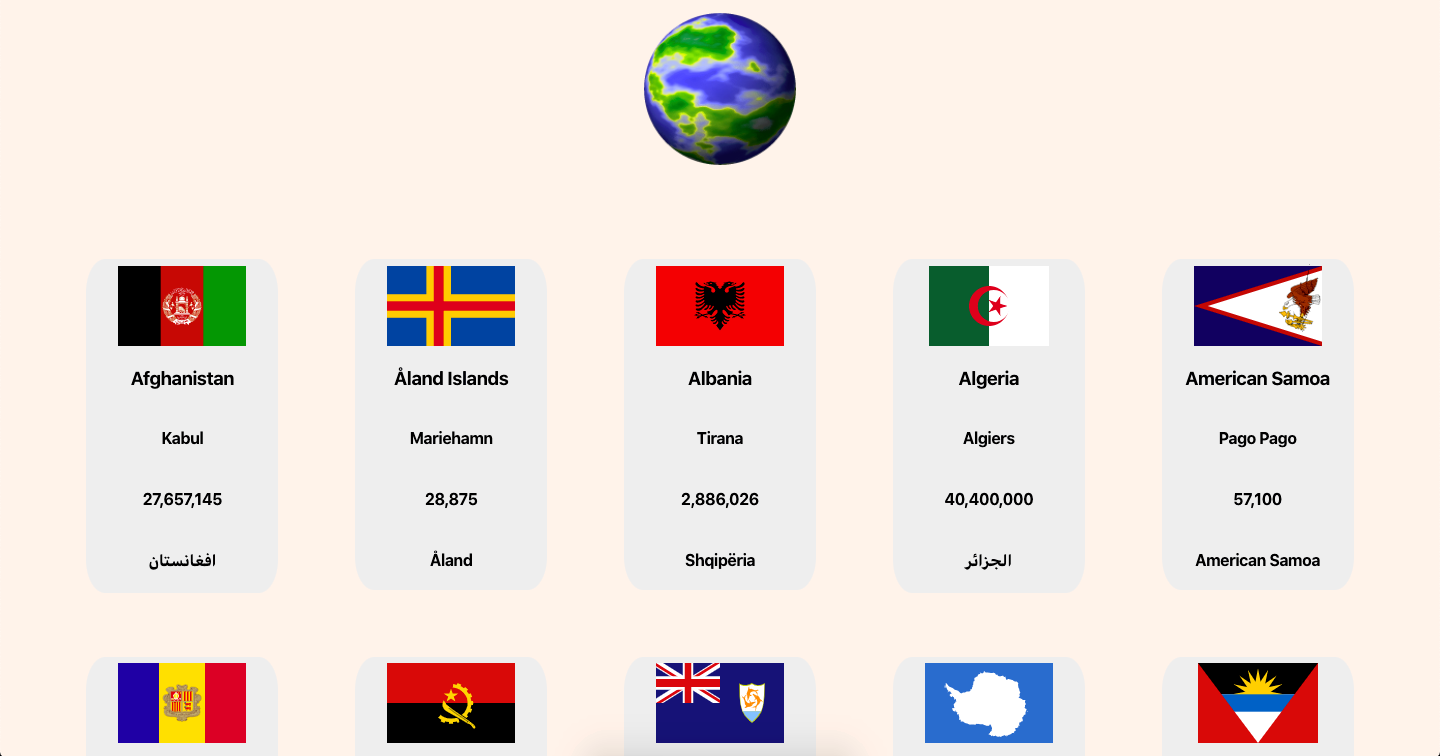
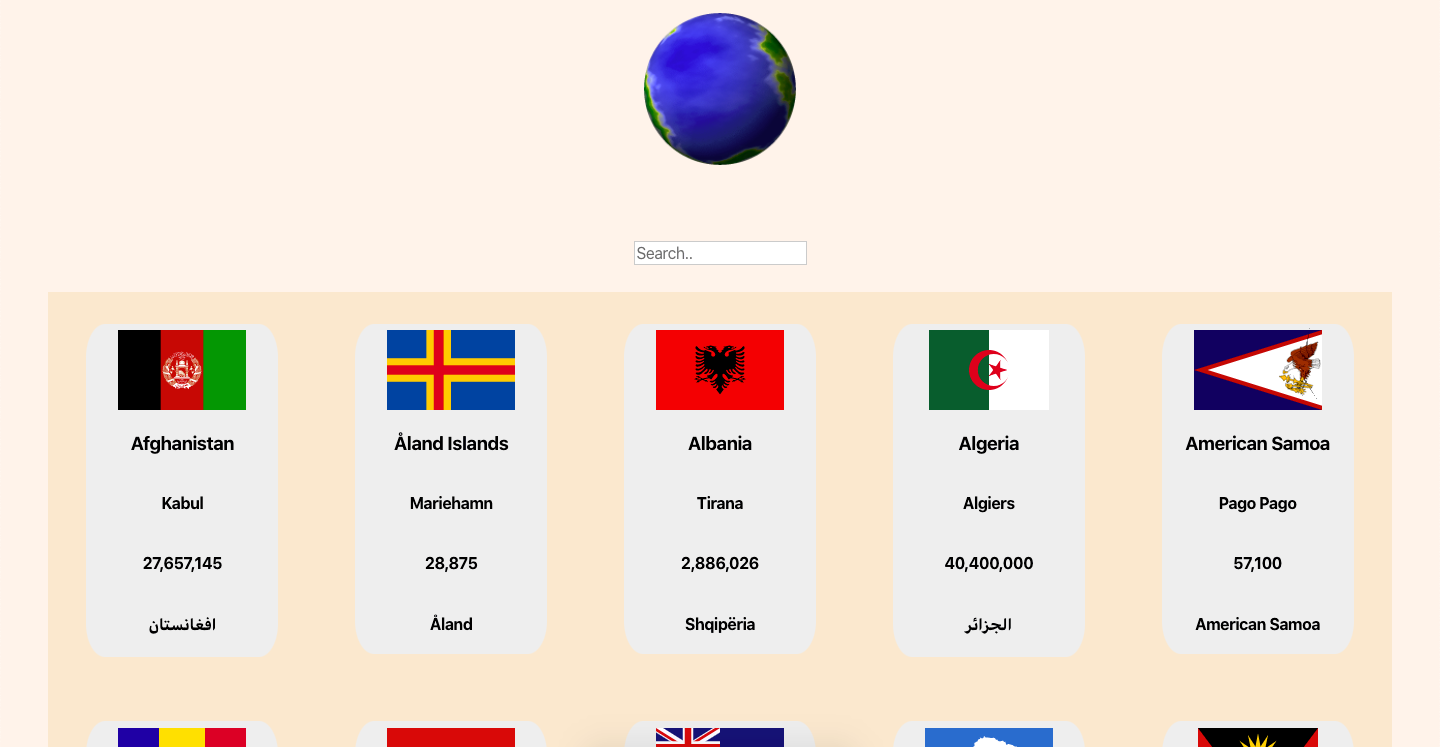
Search function is implemented

diff --git a/src/widgets/Countries.js b/src/widgets/Countries.js
@@ -1,9 +1,11 @@
 import axios from 'axios';
 import React, { useEffect, useState } from 'react';
 import Country from './Country';
+import FilterResults from 'react-filter-search';
 
 function Countries() {
   const [data, setData] = useState([]);
+  const [value, setValue] = useState('');
 
   useEffect(() => {
     let ignore = false;
@@ -14,32 +16,42 @@ function Countries() {
     }
 
     fetchData();
+
     return () => {
       ignore = true;
     };
   }, []);
 
   return (
-    <div style={{ textAlign: 'left', margin: '3em' }}>
-      {/* <div style={{ marginLeft: '2.5em' }}>
+    <div style={{ margin: '3em' }}>
+      <div className="country-search">
         <input
-          value={query}
-          placeholder="Search country name.."
-          onChange={e => setQuery(e.target.value)}
+          type="text"
+          value={value}
+          placeholder="Search.."
+          onChange={e => setValue(e.target.value)}
         />
-      </div> */}
-      <div className="container">
-        {data.map(item => (
-          <div key={item.name}>
-            <Country
-              name={item.name}
-              capital={item.capital}
-              flag={item.flag}
-              population={item.population}
-              nativeName={item.nativeName}
-            />
-          </div>
-        ))}
+      </div>
+      <div>
+        <FilterResults
+          value={value}
+          data={data}
+          renderResults={data => (
+            <div className="container">
+              {data.map(item => (
+                <div key={item.name}>
+                  <Country
+                    name={item.name}
+                    capital={item.capital}
+                    flag={item.flag}
+                    population={item.population}
+                    nativeName={item.nativeName}
+                  />
+                </div>
+              ))}
+            </div>
+          )}
+        />
       </div>
     </div>
   );

diff --git a/src/App.css b/src/App.css
@@ -25,7 +25,7 @@
   display: flex;
   flex-wrap: wrap;
   justify-content: space-around;
-  /* background-color: antiquewhite; */
+  background-color: antiquewhite;
 }
 
 .flex-container > div {
@@ -44,4 +44,14 @@
   margin-top: 5%;
   width: 8em;
   height: 5em;
+}
+
+.country-search {
+  text-align: center;
+  margin: 1%;
+  padding: 1%;
+}
+
+input {
+  font-size: 1em;
 }
